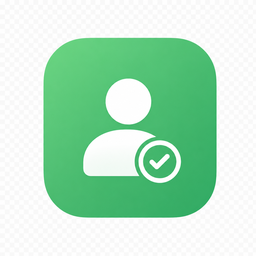
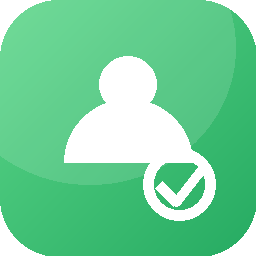
Add files via upload

diff --git a/app.js b/app.js
@@ -908,13 +908,16 @@ function syncStatusOptions(select, includeAll = false) {
   if ([...select.options].some(opt => opt.value === currentValue)) select.value = currentValue;
 }
 function renderStatusManager() {
-  elements.statusList.innerHTML = getStatusList().map(status => {
+  const statuses = getStatusList();
+  elements.statusList.innerHTML = statuses.map((status, index) => {
     const protectedStatus = isCompletedStatus(status);
     return `<div class="status-list-item ${protectedStatus ? "is-protected" : ""}">
       <input class="status-name-input" value="${escapeHtml(status)}" maxlength="20" data-status-old="${escapeHtml(status)}" ${protectedStatus ? "readonly" : ""} />
       <div class="status-list-actions">
+        <button class="order-button" type="button" data-move-status="${escapeHtml(status)}" data-dir="-1" ${index === 0 ? "disabled" : ""}>↑</button>
+        <button class="order-button" type="button" data-move-status="${escapeHtml(status)}" data-dir="1" ${index === statuses.length - 1 ? "disabled" : ""}>↓</button>
         ${protectedStatus ? `<span class="protected-chip">固定</span>` : `<button class="mini-button" type="button" data-save-status="${escapeHtml(status)}">保存</button>`}
-        <button class="mini-button danger" type="button" data-delete-status="${escapeHtml(status)}" ${protectedStatus || getStatusList().length <= 1 ? "disabled" : ""}>削除</button>
+        <button class="mini-button danger" type="button" data-delete-status="${escapeHtml(status)}" ${protectedStatus || statuses.length <= 1 ? "disabled" : ""}>削除</button>
       </div>
     </div>`;
   }).join("");
@@ -929,12 +932,32 @@ function renderStatusManager() {
   elements.statusList.querySelectorAll("[data-delete-status]").forEach(button => {
     button.addEventListener("click", async () => deleteStatus(button.dataset.deleteStatus));
   });
+  elements.statusList.querySelectorAll("[data-move-status]").forEach(button => {
+    button.addEventListener("click", async () => moveStatus(button.dataset.moveStatus, Number(button.dataset.dir)));
+  });
 }
+
+async function moveStatus(name, direction) {
+  const statuses = [...getStatusList()];
+  const index = statuses.indexOf(name);
+  const nextIndex = index + direction;
+  if (index < 0 || nextIndex < 0 || nextIndex >= statuses.length) return;
+  [statuses[index], statuses[nextIndex]] = [statuses[nextIndex], statuses[index]];
+  state.statuses = uniqueStatuses(statuses);
+  await saveStatusSettings(true);
+  syncStatusOptions($("taskStatus"));
+  syncStatusOptions(elements.statusFilter, true);
+  renderStatusManager();
+  render();
+}
+
 async function addStatusFromForm() {
   const name = sanitizeStatus(elements.newStatusName.value);
   if (!name) return toast("状態名を入力してください", true);
   if (getStatusList().some(status => normalizeText(status) === normalizeText(name))) return toast("同じ状態が既にあります", true);
-  state.statuses.push(name);
+  const completeIndex = state.statuses.findIndex(isCompletedStatus);
+  if (completeIndex >= 0) state.statuses.splice(completeIndex, 0, name);
+  else state.statuses.push(name);
   elements.newStatusName.value = "";
   await saveStatusSettings(true);
   syncStatusOptions($("taskStatus"));
@@ -1036,9 +1059,11 @@ function syncCategoryOptions(select, includeAll = false) {
   if ([...select.options].some(opt => opt.value === currentValue)) select.value = currentValue;
 }
 function renderCategoryManager() {
-  elements.categoryList.innerHTML = state.categories.map(category => `<div class="category-list-item">
+  elements.categoryList.innerHTML = state.categories.map((category, index) => `<div class="category-list-item">
     <input class="category-name-input" value="${escapeHtml(category)}" maxlength="20" data-category-old="${escapeHtml(category)}" />
     <div class="category-list-actions">
+      <button class="order-button" type="button" data-move-category="${escapeHtml(category)}" data-dir="-1" ${index === 0 ? "disabled" : ""}>↑</button>
+      <button class="order-button" type="button" data-move-category="${escapeHtml(category)}" data-dir="1" ${index === state.categories.length - 1 ? "disabled" : ""}>↓</button>
       <button class="mini-button" type="button" data-save-category="${escapeHtml(category)}">保存</button>
       <button class="mini-button danger" type="button" data-delete-category="${escapeHtml(category)}" ${state.categories.length <= 1 ? "disabled" : ""}>削除</button>
     </div>
@@ -1054,7 +1079,25 @@ function renderCategoryManager() {
   elements.categoryList.querySelectorAll("[data-delete-category]").forEach(button => {
     button.addEventListener("click", async () => deleteCategory(button.dataset.deleteCategory));
   });
+  elements.categoryList.querySelectorAll("[data-move-category]").forEach(button => {
+    button.addEventListener("click", async () => moveCategory(button.dataset.moveCategory, Number(button.dataset.dir)));
+  });
 }
+
+async function moveCategory(name, direction) {
+  const categories = [...state.categories];
+  const index = categories.indexOf(name);
+  const nextIndex = index + direction;
+  if (index < 0 || nextIndex < 0 || nextIndex >= categories.length) return;
+  [categories[index], categories[nextIndex]] = [categories[nextIndex], categories[index]];
+  state.categories = uniqueCategories(categories);
+  await saveCategorySettings(true);
+  syncCategoryOptions($("taskCategory"));
+  syncCategoryOptions(elements.categoryFilter, true);
+  renderCategoryManager();
+  render();
+}
+
 async function addCategoryFromForm() {
   const name = sanitizeCategory(elements.newCategoryName.value);
   if (!name) return toast("分類名を入力してください", true);

diff --git a/index.html b/index.html
@@ -5,16 +5,16 @@
   <meta name="viewport" content="width=device-width,initial-scale=1" />
   <title>タスク共有</title>
   <meta name="description" content="システム担当2名向けのリアルタイムタスク共有サイト" />
-  <link rel="icon" type="image/png" sizes="32x32" href="assets/favicon-32.png?v=7" />
-  <link rel="apple-touch-icon" href="assets/apple-touch-icon.png?v=7" />
-  <link rel="stylesheet" href="style.css?v=7" />
+  <link rel="icon" type="image/png" sizes="32x32" href="assets/favicon-32.png?v=9" />
+  <link rel="apple-touch-icon" href="assets/apple-touch-icon.png?v=9" />
+  <link rel="stylesheet" href="style.css?v=9" />
   <script src="config.js?v=1"></script>
 </head>
 <body>
   <div class="app-shell">
     <aside class="sidebar">
       <div class="brand">
-        <div class="brand-mark"><img src="assets/brand.png?v=7" alt="" /></div>
+        <div class="brand-mark"><img src="assets/brand.png?v=9" alt="" /></div>
         <div>
           <p>SYSTEM TASK</p>
           <h1>タスク共有</h1>
@@ -24,14 +24,14 @@
       <nav class="nav">
         <div class="nav-group">
           <p class="nav-group-title">表示</p>
-          <button class="nav-item active" data-layout="board" type="button"><span class="nav-icon"><img src="assets/nav-board.png?v=7" alt="" /></span>ボード</button>
-          <button class="nav-item" data-layout="list" type="button"><span class="nav-icon"><img src="assets/nav-list.png?v=7" alt="" /></span>一覧</button>
-          <button class="nav-item" data-layout="timeline" type="button"><span class="nav-icon"><img src="assets/nav-timeline.png?v=7" alt="" /></span>タイムライン</button>
+          <button class="nav-item active" data-layout="board" type="button"><span class="nav-icon"><img src="assets/nav-board.png?v=9" alt="" /></span>ボード</button>
+          <button class="nav-item" data-layout="list" type="button"><span class="nav-icon"><img src="assets/nav-list.png?v=9" alt="" /></span>一覧</button>
+          <button class="nav-item" data-layout="timeline" type="button"><span class="nav-icon"><img src="assets/nav-timeline.png?v=9" alt="" /></span>タイムライン</button>
         </div>
         <div class="nav-group">
           <p class="nav-group-title">絞り込み</p>
-          <button class="nav-item nav-filter" data-filter="mine" type="button"><span class="nav-icon"><img src="assets/summary-mine.png?v=7" alt="" /></span>自分の担当</button>
-          <button class="nav-item nav-filter" data-filter="done" type="button"><span class="nav-icon"><img src="assets/nav-done.png?v=7" alt="" /></span>完了</button>
+          <button class="nav-item nav-filter" data-filter="mine" type="button"><span class="nav-icon"><img src="assets/summary-mine.png?v=9" alt="" /></span>自分の担当</button>
+          <button class="nav-item nav-filter" data-filter="done" type="button"><span class="nav-icon"><img src="assets/nav-done.png?v=9" alt="" /></span>完了</button>
         </div>
       </nav>
 
@@ -102,19 +102,19 @@
 
       <section class="summary-grid">
         <article class="summary-card">
-          <span class="summary-icon icon-image blue"><img src="assets/summary-open.png?v=7" alt="" /></span>
+          <span class="summary-icon icon-image blue"><img src="assets/summary-open.png?v=9" alt="" /></span>
           <div><p>未完了</p><strong id="openCount">0件</strong></div>
         </article>
         <article class="summary-card">
-          <span class="summary-icon icon-image red"><img src="assets/summary-overdue.png?v=7" alt="" /></span>
+          <span class="summary-icon icon-image red"><img src="assets/summary-overdue.png?v=9" alt="" /></span>
           <div><p>期限超過</p><strong id="overdueCount">0件</strong></div>
         </article>
         <article class="summary-card">
-          <span class="summary-icon icon-image amber"><img src="assets/summary-today.png?v=7" alt="" /></span>
+          <span class="summary-icon icon-image amber"><img src="assets/summary-today.png?v=9" alt="" /></span>
           <div><p>今日まで</p><strong id="todayCount">0件</strong></div>
         </article>
         <article class="summary-card">
-          <span class="summary-icon icon-image green"><img src="assets/summary-mine.png?v=7" alt="" /></span>
+          <span class="summary-icon icon-image green"><img src="assets/summary-mine.png?v=9" alt="" /></span>
           <div><p>自分の担当</p><strong id="myCount">0件</strong></div>
         </article>
       </section>
@@ -303,6 +303,6 @@
 
   <div id="toast" class="toast" hidden></div>
 
-  <script type="module" src="app.js?v=7"></script>
+  <script type="module" src="app.js?v=9"></script>
 </body>
 </html>

diff --git a/style.css b/style.css
@@ -550,3 +550,151 @@
     grid-template-columns: repeat(3, 1fr);
   }
 }
+
+
+/* v8: 左メニューアイコンの白フチ対策 */
+.nav-icon {
+  background: transparent !important;
+  box-shadow: none !important;
+}
+
+.nav-icon img {
+  display: block !important;
+  width: 100% !important;
+  height: 100% !important;
+  object-fit: cover !important;
+  border-radius: inherit !important;
+}
+
+/* v8: タイムライン内のユーザーアイコン中央寄せ */
+.timeline-task .user-badge {
+  display: inline-flex !important;
+  align-items: center !important;
+  gap: 6px !important;
+  line-height: 1 !important;
+}
+
+.timeline-task .tiny-avatar,
+.user-badge .tiny-avatar {
+  display: inline-grid !important;
+  place-items: center !important;
+  align-items: center !important;
+  justify-content: center !important;
+  text-align: center !important;
+  line-height: 1 !important;
+  color: #fff !important;
+  font-size: 11px !important;
+  font-weight: 1000 !important;
+  vertical-align: middle !important;
+}
+
+/* v8: 状態・分類の並び替えボタン */
+.order-button {
+  width: 32px;
+  height: 32px;
+  border: 1px solid #d8e6ef;
+  border-radius: 999px;
+  background: #fff;
+  color: #2b5d7e;
+  font-weight: 1000;
+  cursor: pointer;
+}
+
+.order-button:hover:not(:disabled) {
+  background: #eef8ff;
+  transform: translateY(-1px);
+}
+
+.order-button:disabled {
+  opacity: .35;
+  cursor: not-allowed;
+}
+
+.status-list-actions,
+.category-list-actions {
+  flex-wrap: wrap;
+  justify-content: flex-end;
+}
+
+
+/* v9: 状態カラムが増えた場合は折り返さず横スクロール */
+.board-view {
+  display: flex !important;
+  grid-template-columns: none !important;
+  flex-wrap: nowrap !important;
+  align-items: flex-start !important;
+  gap: 14px !important;
+  width: 100% !important;
+  max-width: 100% !important;
+  overflow-x: auto !important;
+  overflow-y: visible !important;
+  padding: 0 6px 16px 0 !important;
+  scroll-snap-type: x proximity;
+  scrollbar-gutter: stable;
+}
+
+.board-view .board-column {
+  flex: 0 0 238px !important;
+  width: 238px !important;
+  min-width: 238px !important;
+  max-width: 238px !important;
+  scroll-snap-align: start;
+}
+
+.board-view .add-status-column {
+  flex: 0 0 238px !important;
+  width: 238px !important;
+  min-width: 238px !important;
+  max-width: 238px !important;
+}
+
+.board-view::-webkit-scrollbar {
+  height: 12px;
+}
+
+.board-view::-webkit-scrollbar-track {
+  background: rgba(255,255,255,.45);
+  border-radius: 999px;
+}
+
+.board-view::-webkit-scrollbar-thumb {
+  background: rgba(70, 116, 148, .42);
+  border-radius: 999px;
+  border: 3px solid rgba(255,255,255,.55);
+}
+
+.board-view::-webkit-scrollbar-thumb:hover {
+  background: rgba(70, 116, 148, .62);
+}
+
+@media (max-width: 1280px) {
+  .board-view {
+    display: flex !important;
+    grid-template-columns: none !important;
+    overflow-x: auto !important;
+  }
+
+  .board-view .board-column,
+  .board-view .add-status-column {
+    flex-basis: 236px !important;
+    width: 236px !important;
+    min-width: 236px !important;
+    max-width: 236px !important;
+  }
+}
+
+@media (max-width: 860px) {
+  .board-view {
+    display: flex !important;
+    grid-template-columns: none !important;
+    overflow-x: auto !important;
+  }
+
+  .board-view .board-column,
+  .board-view .add-status-column {
+    flex-basis: 82vw !important;
+    width: 82vw !important;
+    min-width: 82vw !important;
+    max-width: 82vw !important;
+  }
+}

diff --git a/README.md b/README.md
@@ -151,3 +151,23 @@ rooms/{roomId}/tasks/{taskId}
   - 期限なしタスクの別枠表示
 - タイムライン用の新しいアイコンを追加しました。
 - `style.css?v=7` / `app.js?v=7` / 各アイコン画像 `?v=7` にしてブラウザキャッシュを回避しています。
+
+
+## v8 修正内容
+
+- 左メニューのボード・一覧・自分の担当・完了アイコンを再作成し、白いフチが見えないようにしました。
+- タイムラインのアイコンを、よりシンプルで分かりやすい横軸アイコンに変更しました。
+- タイムライン内のユーザー丸アイコンの文字が中央に来るようCSSを修正しました。
+- 状態管理で、状態の順番を上下ボタンで入れ替えられるようにしました。
+- 分類管理で、分類の順番を上下ボタンで入れ替えられるようにしました。
+- 状態を新規追加した場合は、通常運用で扱いやすいように「完了」の手前へ追加されます。
+- `style.css?v=8` / `app.js?v=8` / 各アイコン画像 `?v=8` にしてブラウザキャッシュを回避しています。
+
+
+## v9 修正内容
+
+- 状態セクションが6個以上になっても下段へ折り返さず、横スクロールで右側に並ぶようにしました。
+- ボード表示の状態カラムをCSS Gridから横並びFlex表示に上書きしています。
+- 横スクロールバーの見た目も少し調整しました。
+- スマホ幅でも縦に折り返さず、横スクロールで確認できるようにしています。
+- `style.css?v=9` / `app.js?v=9` / 各アイコン画像 `?v=9` にしてブラウザキャッシュを回避しています。
